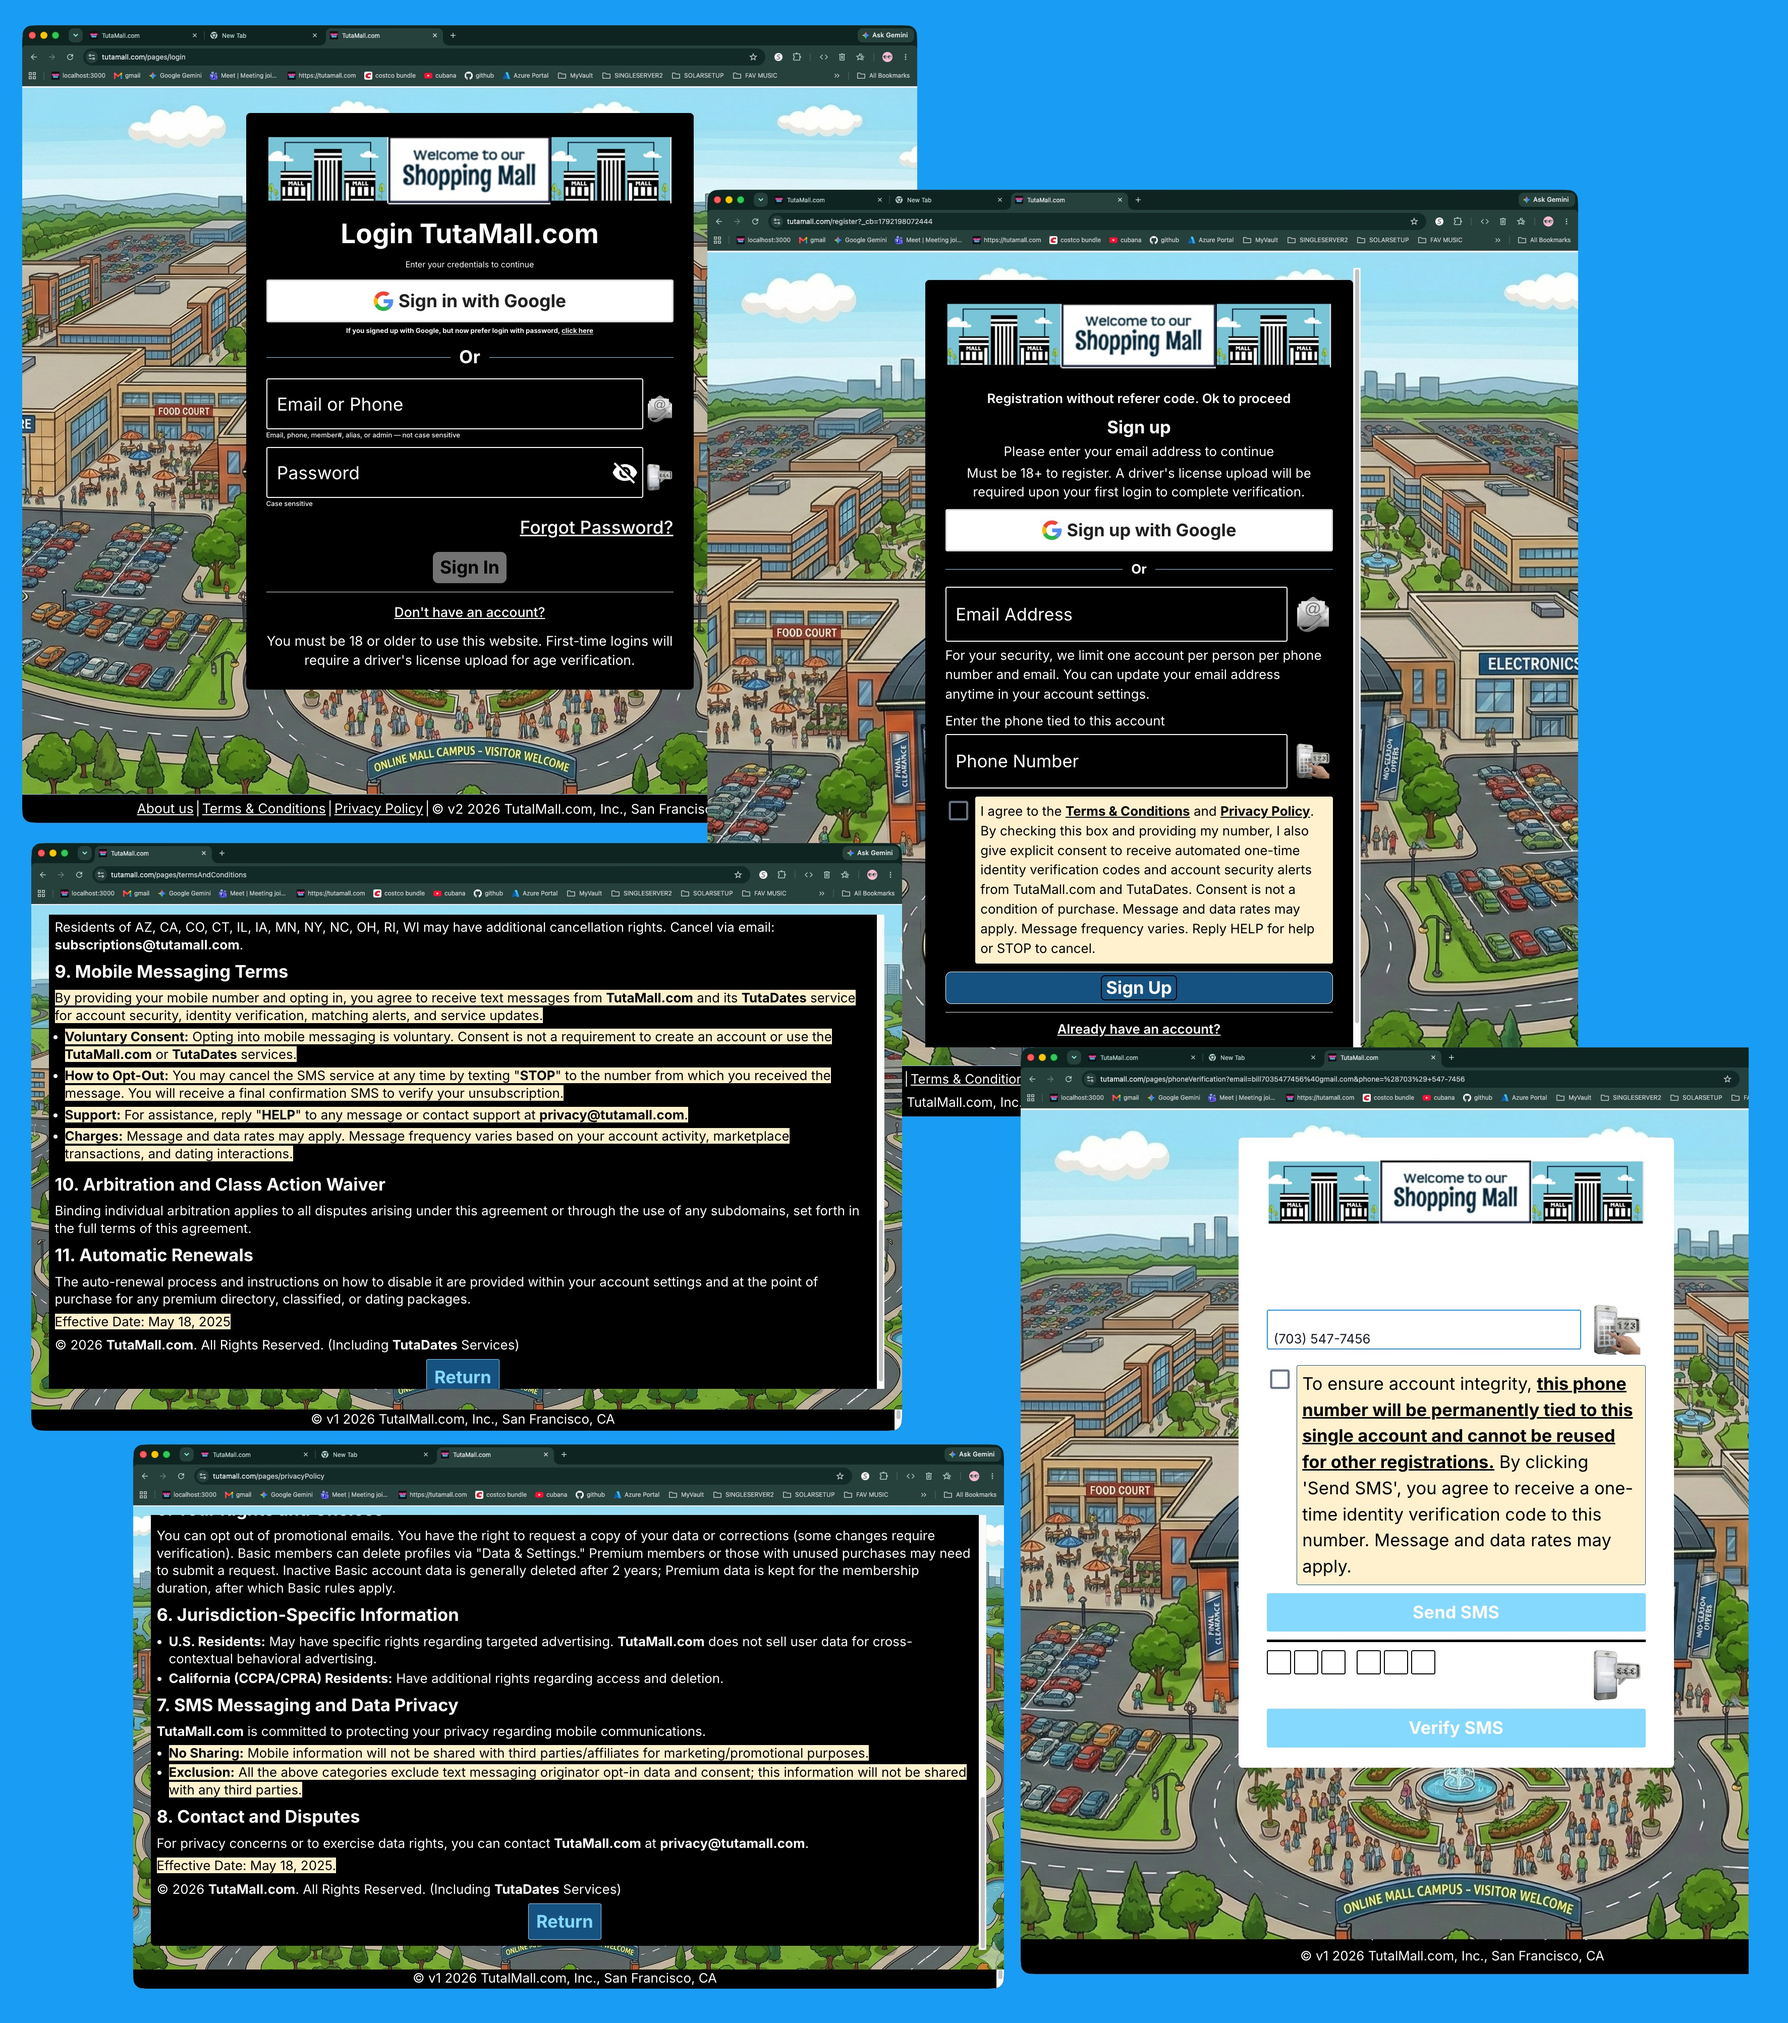
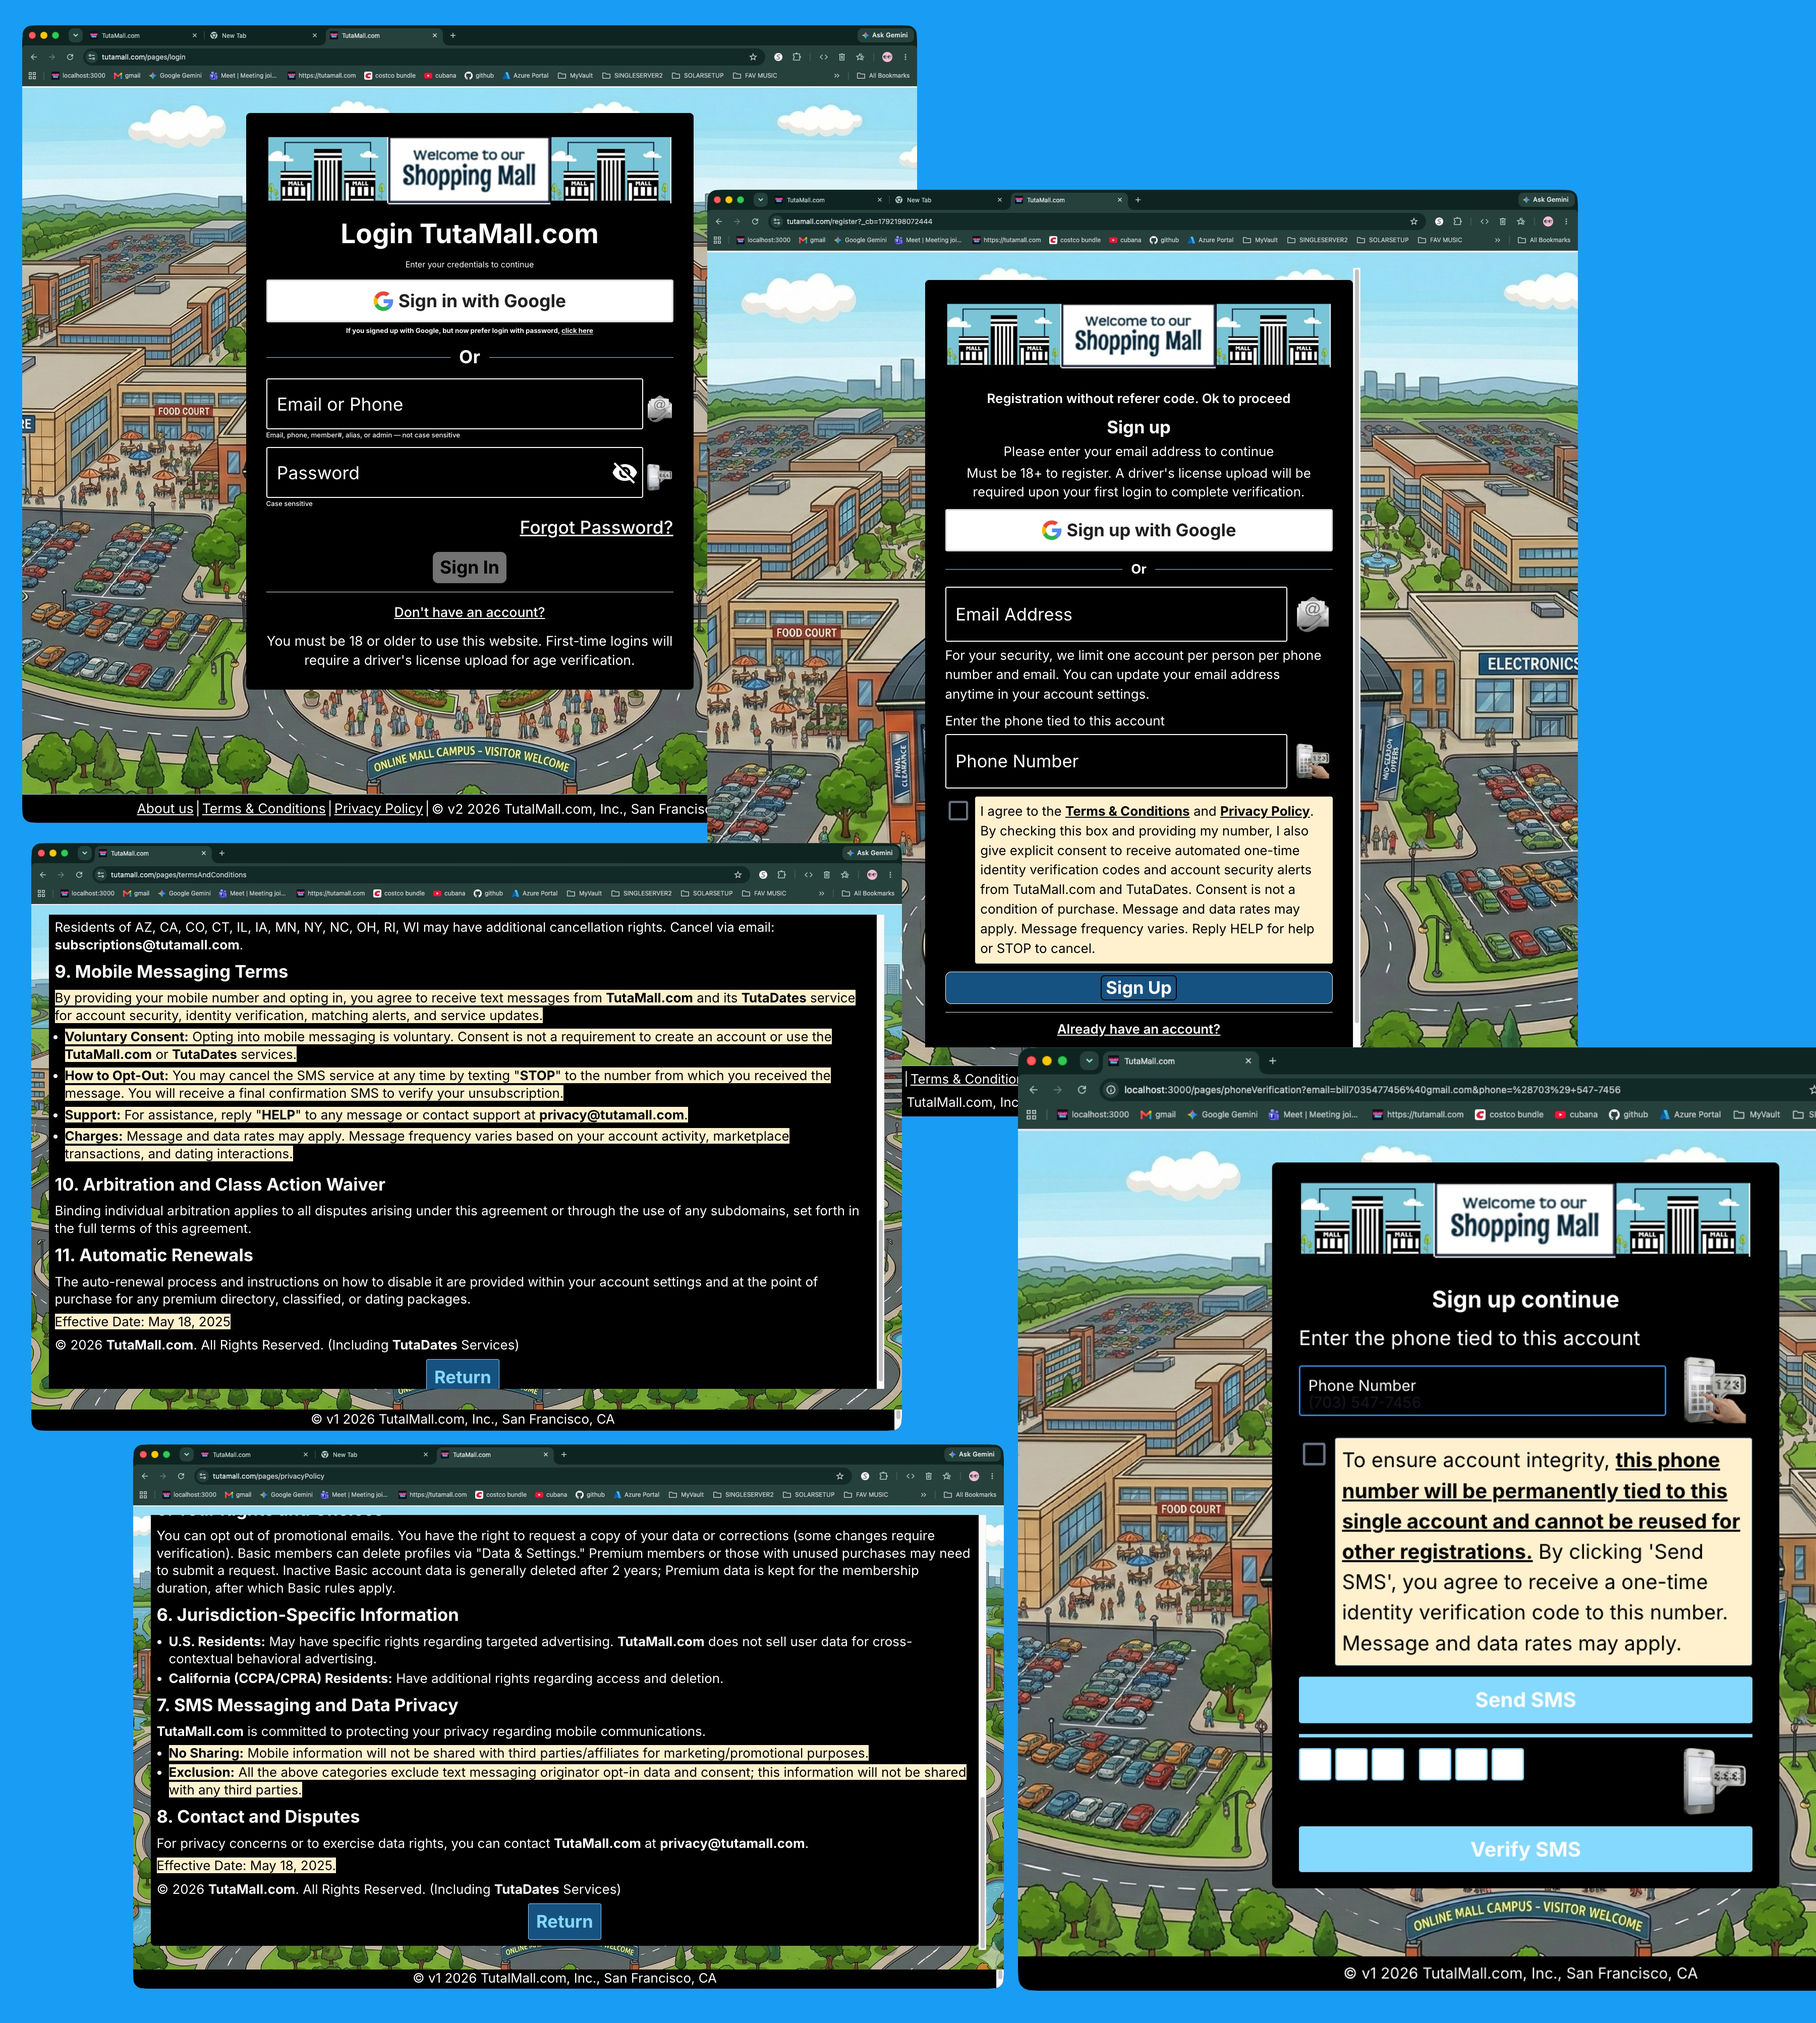
work_282_samebackground

diff --git a/fe/src/views/pages/auth-forms/AuthPhoneVerification.jsx b/fe/src/views/pages/auth-forms/AuthPhoneVerification.jsx
@@ -139,10 +139,10 @@ const verificationSlotInputSx = (hasError) => ({
   fontSize: authEnvButtonFontSize,
   fontWeight: 600,
   border: '2px solid',
-  borderColor: hasError ? 'error.main' : '#000',
+  borderColor: hasError ? 'error.main' : 'var(--theme-primary-color)',
   borderRadius: 1,
-  bgcolor: '#fff',
-  color: 'text.primary',
+  bgcolor: 'background.paper',
+  color: 'var(--theme-primary-color)',
   '&:focus': {
     outline: 'none',
     borderColor: 'var(--theme-primary-color)',
@@ -436,7 +436,7 @@ export default function AuthPhoneVerification() {
 
       <Box sx={{ mt: 2 }}>{sendSmsButtonEl}</Box>
 
-      <Box sx={{ mt: 2, height: 5, bgcolor: '#000', width: '100%', flexShrink: 0, borderRadius: 0 }} />
+      <Box sx={{ mt: 2, height: 5, bgcolor: 'var(--theme-primary-color)', width: '100%', flexShrink: 0, borderRadius: 0 }} />
 
       <Box sx={{ ...fieldWithRightImageRowSx, mt: 2, alignItems: 'flex-start' }}>
         <Box

diff --git a/fe/src/views/pages/authentication/PhoneVerification.jsx b/fe/src/views/pages/authentication/PhoneVerification.jsx
@@ -24,7 +24,7 @@ export default function PhoneVerification() {
     <AuthWrapper1>
       <Stack sx={{ ...authShellStackSx, ...authFixedFooterContentPaddingBottom }}>
         <AuthStandardDialogFrame>
-          <AuthCardWrapper fullWidth sx={{ bgcolor: '#fff' }}>
+          <AuthCardWrapper fullWidth>
             <Stack sx={{ alignItems: 'center', justifyContent: 'center', gap: 2, px: { xs: 1, sm: 2 }, boxSizing: 'border-box', width: '100%' }}>
               <Box sx={{ mb: 3 }}>
                 <Link to="#" aria-label="logo">
